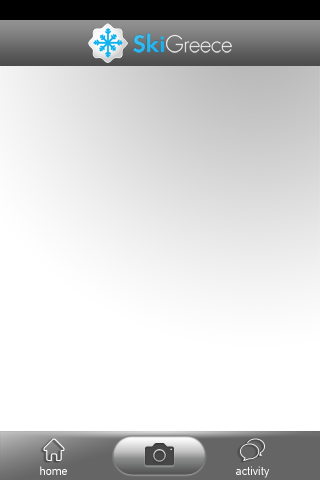
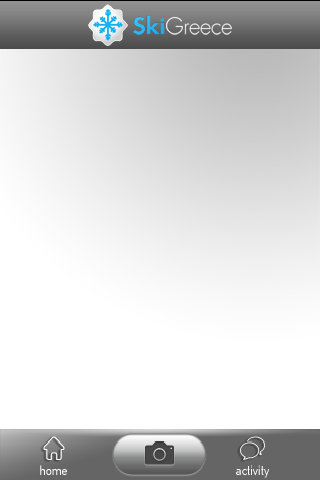
iPhone 6 changes for community

Changed region(s): [[0.0, 0.0, 1.0, 0.1562], [0.0, 0.875, 1.0, 0.9688]]

diff --git a/ski greece/ViewControllers/CommunityControllers/Home/VTHomeViewController.m b/ski greece/ViewControllers/CommunityControllers/Home/VTHomeViewController.m
@@ -17,6 +17,12 @@
 //#import "PAPAccountViewController.h
 #import "VTEditPhotoViewController.h"
 
+#define CONTAINER_Y_IPHONE_4 60.0f
+#define CONTAINER_Y_IPHONE_5 60.0f
+#define CONTAINER_Y_IPHONE_6 64.0f
+
+#define BOTTOM_BAR_HEIGHT    60.0f
+
 
 @interface VTHomeViewController ()
 
@@ -46,6 +52,78 @@ typedef enum {
     // Do any additional setup after loading the view.
     
     
+    if (IS_DEVELOPER){
+        NSLog(@"Container is loaded");
+        NSLog(@"ContainerView. X : %f Y:%f Height :%f Width : %f",self.containerView.frame.origin.x,self.containerView.frame.origin.y,self.containerView.frame.size.height,self.containerView.frame.size.width);
+    }
+    
+    
+
+    
+    CGFloat startingPoint ;
+    CGFloat bottomBar  = BOTTOM_BAR_HEIGHT;
+
+    if (IS_IPHONE_6) {
+        startingPoint = CONTAINER_Y_IPHONE_6;
+    } else if (IS_IPHONE_5) {
+        startingPoint = CONTAINER_Y_IPHONE_5;
+    } else  {
+        startingPoint = CONTAINER_Y_IPHONE_4;
+    }
+    
+    // get device height
+    //CGRect screenRect = [[UIScreen mainScreen] bounds];
+    //CGFloat screenWidth = screenRect.size.width;
+    CGFloat screenHeight = SCREEN_HEIGHT;
+    CGFloat containerHeight = screenHeight - startingPoint - bottomBar - [UIApplication sharedApplication].statusBarFrame.size.height;
+
+    
+    // Do your resizing
+    
+    self.backgroundImg.frame = CGRectMake(0.0f, [UIApplication sharedApplication].statusBarFrame.size.height, SCREEN_WIDTH, SCREEN_HEIGHT - [UIApplication sharedApplication].statusBarFrame.size.height);
+    
+    if (IS_IPHONE_6) {
+        self.backgroundImg.image = [UIImage imageNamed:@"DefaultAnypic-667h.png"];
+        self.backButton.frame = CGRectMake(0.0f, self.backgroundImg.frame.origin.y + 4.0f, 56.0f, 56.0f);
+        self.settingsButton.frame = CGRectMake(SCREEN_WIDTH - 60.0f, self.backButton.frame.origin.y, 96.0f, 56.0f);
+        self.takePhotoBtn.frame = CGRectMake(135.0f, SCREEN_HEIGHT - self.takePhotoBtn.frame.size.height, 80.0f, self.takePhotoBtn.frame.size.height);
+        self.activityButton.frame = CGRectMake(260.0f, SCREEN_HEIGHT - self.activityButton.frame.size.height, 80.0f, self.activityButton.frame.size.height);
+    } else if (IS_IPHONE_5) {
+        self.backgroundImg.image = [UIImage imageNamed:@"DefaultAnypic-568h.png"];
+    }
+    
+    
+    
+    // adjust tableView frame
+    self.containerView.frame = CGRectMake(0.0, startingPoint + [UIApplication sharedApplication].statusBarFrame.size.height, SCREEN_WIDTH,containerHeight);
+    if (IS_DEVELOPER) {
+        NSLog(@"containerView after changes");
+        NSLog(@"statusBarFrame : %f",[UIApplication sharedApplication].statusBarFrame.size.height);
+        NSLog(@"containerView. X : %f Y:%f Height :%f Width : %f",self.containerView.frame.origin.x,self.containerView.frame.origin.y,self.containerView.frame.size.height,self.containerView.frame.size.width);
+        NSLog(@"backgroundImg : X : %f Y:%f Height :%f Width : %f",self.backgroundImg.frame.origin.x,self.backgroundImg.frame.origin.y,self.backgroundImg.frame.size.height,self.backgroundImg.frame.size.width);
+    }
+    
+    // Download user's profile picture
+    NSURL *profilePictureURL = [NSURL URLWithString:[NSString stringWithFormat:@"https://graph.facebook.com/%@/picture?type=large", [[PFUser currentUser] objectForKey:kPAPUserFacebookIDKey]]];
+    NSURLRequest *profilePictureURLRequest = [NSURLRequest requestWithURL:profilePictureURL cachePolicy:NSURLRequestUseProtocolCachePolicy timeoutInterval:10.0f]; // Facebook profile picture cache policy: Expires in 2 weeks
+    [NSURLConnection connectionWithRequest:profilePictureURLRequest delegate:self];
+    
+    // follow the same as the other screens
+    if ([[[UIDevice currentDevice] systemVersion] floatValue] >= 7.0f) {
+        UIImageView *imgView = [[UIImageView alloc] initWithFrame:CGRectMake(0, 0, SCREEN_WIDTH, 20)];
+        imgView.backgroundColor=[UIColor blackColor];
+        //[self.view addSubview:imgView];
+    }
+    
+    if ([self respondsToSelector:@selector(setNeedsStatusBarAppearanceUpdate)])
+    {
+        [self setNeedsStatusBarAppearanceUpdate];
+    }
+    
+    
+    
+    // after the layout is computed we init the child controller
+    
     //(AppDelegate*)[[UIApplication sharedApplication].delegate].homeViewController;
     AppDelegate *del = (AppDelegate*)[[UIApplication sharedApplication] delegate];
     PAPHomeViewController *vc = del.homeViewController;
@@ -54,65 +132,11 @@ typedef enum {
     [self.containerView setBackgroundColor:[UIColor clearColor]];
     [self addChildViewController:vc];
     
-    if (IS_DEVELOPER){
-        NSLog(@"Container is loaded");
-        NSLog(@"ContainerView. X : %f Y:%f Height :%f Width : %f",self.containerView.frame.origin.x,self.containerView.frame.origin.y,self.containerView.frame.size.height,self.containerView.frame.size.width);
-    }
-    
-    
-    CGFloat startingPoint_iphone5   = 60.0f ;
-    CGFloat bottomBar_iphone5       = 60.0f ;
-    CGFloat startingPoint_iphone4   = 50.0f ;
-    CGFloat bottomBar_iphone4       = 51.0f ;
-    CGFloat startingPoint_iphone6   = 60.0f ;
-    CGFloat bottomBar_iphone6       = 60.0f ;
-    
-    CGFloat startingPoint = startingPoint_iphone4;
-    CGFloat bottomBar = bottomBar_iphone4;
-
-    if (IS_IPHONE_4_OR_LESS) {
-        NSLog(@"iPhone4");
-        startingPoint = startingPoint_iphone4;
-        bottomBar  = bottomBar_iphone4;
-    } else if (IS_IPHONE_5) {
-        NSLog(@"iPhone5");
-        startingPoint = startingPoint_iphone5;
-        bottomBar  = bottomBar_iphone5;
-    } else if (IS_IPHONE_6) {
-        NSLog(@"iPhone6");
-        startingPoint = startingPoint_iphone6;
-        bottomBar  = bottomBar_iphone6;
-    }
-    
-    // get device height
-    CGRect screenRect = [[UIScreen mainScreen] bounds];
-    //CGFloat screenWidth = screenRect.size.width;
-    CGFloat screenHeight = screenRect.size.height;
-    CGFloat containerHeight = screenHeight - startingPoint - bottomBar;
-    
-    // Do your resizing
-    // adjust tableView frame
-    self.containerView.frame = CGRectMake(0.0, startingPoint, self.containerView.frame.size.width,containerHeight);
-    if (IS_DEVELOPER) {
-        NSLog(@"containerView after changes");
-        NSLog(@"containerView. X : %f Y:%f Height :%f Width : %f",self.containerView.frame.origin.x,self.containerView.frame.origin.y,self.containerView.frame.size.height,self.containerView.frame.size.width);
-    }
-    
-    // Download user's profile picture
-    NSURL *profilePictureURL = [NSURL URLWithString:[NSString stringWithFormat:@"https://graph.facebook.com/%@/picture?type=large", [[PFUser currentUser] objectForKey:kPAPUserFacebookIDKey]]];
-    NSURLRequest *profilePictureURLRequest = [NSURLRequest requestWithURL:profilePictureURL cachePolicy:NSURLRequestUseProtocolCachePolicy timeoutInterval:10.0f]; // Facebook profile picture cache policy: Expires in 2 weeks
-    [NSURLConnection connectionWithRequest:profilePictureURLRequest delegate:self];
-    
 }
 
 
 
-- (void)viewDidLayoutSubviews {
-    [super viewDidLayoutSubviews];
-    
-    
-    
-}
+
 
 
 

diff --git a/ski greece/Views/TimelineView/PAPPhotoHeaderView.m b/ski greece/Views/TimelineView/PAPPhotoHeaderView.m
@@ -61,7 +61,11 @@
             // comments button
             commentButton = [UIButton buttonWithType:UIButtonTypeCustom];
             [containerView addSubview:self.commentButton];
-            [self.commentButton setFrame:CGRectMake( 242.0f, 10.0f, 29.0f, 28.0f)];
+            if (IS_IPHONE_6){
+                [self.commentButton setFrame:CGRectMake( 242.0f + 55.0f, 10.0f, 29.0f, 28.0f)];
+            } else {
+                [self.commentButton setFrame:CGRectMake( 242.0f, 10.0f, 29.0f, 28.0f)];
+            }
             [self.commentButton setBackgroundColor:[UIColor clearColor]];
             [self.commentButton setTitle:@"" forState:UIControlStateNormal];
             [self.commentButton setTitleColor:[UIColor colorWithRed:0.369f green:0.271f blue:0.176f alpha:1.0f] forState:UIControlStateNormal];
@@ -79,7 +83,11 @@
             // like button
             likeButton = [UIButton buttonWithType:UIButtonTypeCustom];
             [containerView addSubview:self.likeButton];
-            [self.likeButton setFrame:CGRectMake(206.0f, 8.0f, 29.0f, 29.0f)];
+            if (IS_IPHONE_6) {
+                [self.likeButton setFrame:CGRectMake(206.0f + 55.0f, 8.0f, 29.0f, 29.0f)];
+            } else {
+                [self.likeButton setFrame:CGRectMake(206.0f, 8.0f, 29.0f, 29.0f)];
+            }
             [self.likeButton setBackgroundColor:[UIColor clearColor]];
             [self.likeButton setTitle:@"" forState:UIControlStateNormal];
             [self.likeButton setTitleColor:[UIColor colorWithRed:0.369f green:0.271f blue:0.176f alpha:1.0f] forState:UIControlStateNormal];

diff --git a/ski greece/PAPPhotoTimelineViewController.m b/ski greece/PAPPhotoTimelineViewController.m
@@ -101,11 +101,7 @@
 - (void)viewDidAppear:(BOOL)animated {
     [super viewDidAppear:animated];
     
-    if (IS_DEVELOPER) NSLog(@"viewDidAppear is called");
-    
-    
 
-    
     if (self.shouldReloadOnAppear) {
         self.shouldReloadOnAppear = NO;
         [self loadObjects];
@@ -228,7 +224,6 @@
 
 - (CGFloat)tableView:(UITableView *)tableView heightForHeaderInSection:(NSInteger)section {
     if (section == self.objects.count) {
-        if (IS_DEVELOPER) NSLog(@"heightForHeader is 0.0");
         return 0.0f;
     }
     return 44.0f;
@@ -349,6 +344,8 @@
         return cell;
     } else {
         PAPPhotoCell *cell = (PAPPhotoCell *)[tableView dequeueReusableCellWithIdentifier:CellIdentifier];
+        
+        //NSLog(@"Cell :  %f,%f,%f,%f",cell.frame.origin.x, cell.frame.origin.y,cell.frame.size.width,cell.frame.size.height);
         
         // adding for IOS7+
         // default background is white

diff --git a/ski greece/ViewControllers/CommunityControllers/Detail/VTPhotoDetailsViewController.m b/ski greece/ViewControllers/CommunityControllers/Detail/VTPhotoDetailsViewController.m
@@ -39,6 +39,11 @@ enum ActionSheetTags {
         self.photo = del.photoFromNotif;
     }
     
+    if (IS_IPHONE_6) {
+        self.topBar.frame = CGRectMake(0.0f, [UIApplication sharedApplication].statusBarFrame.size.height, SCREEN_WIDTH , 43.0f);
+        self.containerView.frame = CGRectMake(0.0f, [UIApplication sharedApplication].statusBarFrame.size.height +43.0f, SCREEN_WIDTH, SCREEN_HEIGHT - [UIApplication sharedApplication].statusBarFrame.size.height - 43.0f);
+    }
+    
     del.photoDetailsViewController = [[PAPPhotoDetailsViewController alloc] initWithPhoto:self.photo];
     PAPPhotoDetailsViewController *vc = del.photoDetailsViewController;
     vc.view.frame = self.containerView.bounds;

diff --git a/ski greece/Views/UITableViewCells/PAPPhotoCell.m b/ski greece/Views/UITableViewCells/PAPPhotoCell.m
@@ -58,8 +58,13 @@
 
 - (void)layoutSubviews {
     [super layoutSubviews];
-    self.imageView.frame = CGRectMake( 20.0f, 0.0f, 280.0f, 280.0f);
-    self.photoButton.frame = CGRectMake( 20.0f, 0.0f, 280.0f, 280.0f);
+    if (IS_IPHONE_6) {
+        self.imageView.frame = CGRectMake( 20.0f, 0.0f, 335.0f, 280.0f);
+        self.photoButton.frame = CGRectMake( 20.0f, 0.0f, 335.0f, 280.0f);
+    } else {
+        self.imageView.frame = CGRectMake( 20.0f, 0.0f, 280.0f, 280.0f);
+        self.photoButton.frame = CGRectMake( 20.0f, 0.0f, 280.0f, 280.0f);
+    }
 }
 
 @end

diff --git a/ski greece/ViewControllers/CommunityControllers/Home/VTHomeViewController.h b/ski greece/ViewControllers/CommunityControllers/Home/VTHomeViewController.h
@@ -18,6 +18,7 @@
 @property (weak, nonatomic) IBOutlet UIButton *takePhotoBtn;
 @property (weak, nonatomic) IBOutlet UIButton *activityButton;
 @property (weak, nonatomic) IBOutlet UIButton *backButton;
+@property (weak, nonatomic) IBOutlet UIImageView *backgroundImg;
 
 
 
